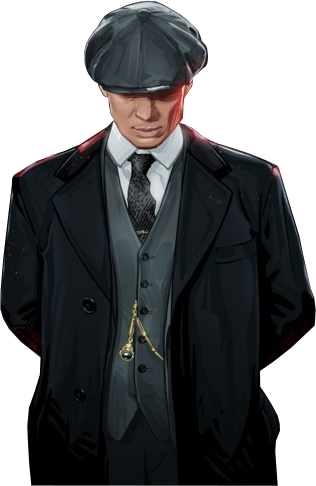
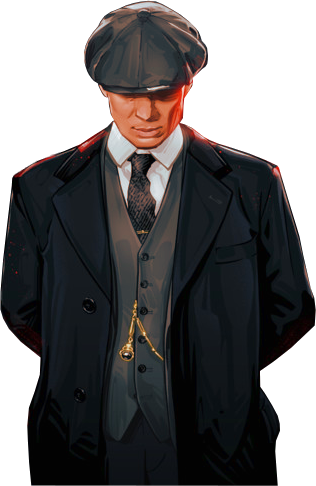
change the width of the main image peakbl.png

diff --git a/homepage.html b/homepage.html
@@ -71,7 +71,7 @@
 	</div>
 		<div class="containerGrid">
     <div class="containerItemA">
-		<img class="imgContainer" width="110" height="450" src="image/peakbl.png" alt="avatar - Mateusz Dyderski">
+		<img class="imgContainer" width="270" height="450" src="image/peakbl.png" alt="avatar - Mateusz Dyderski">
 	</div>
 	<div class="containerItemB">
 		<p><b class="welcome1">Hello, my name is.</b> <br><b class="namecl">Mateusz</b> <b class="welcome">Dyderski</b></p>

diff --git a/css/contaierGrid.css b/css/contaierGrid.css
@@ -29,8 +29,8 @@
 @media (max-width: 767px) { 
     .imgContainer{
         display:grid;
-        max-width:120px;
-        max-height:200px;
+        max-width:110px;
+        max-height:210px;
         margin-bottom:-50px;
         margin-top:-20px;
         } 
